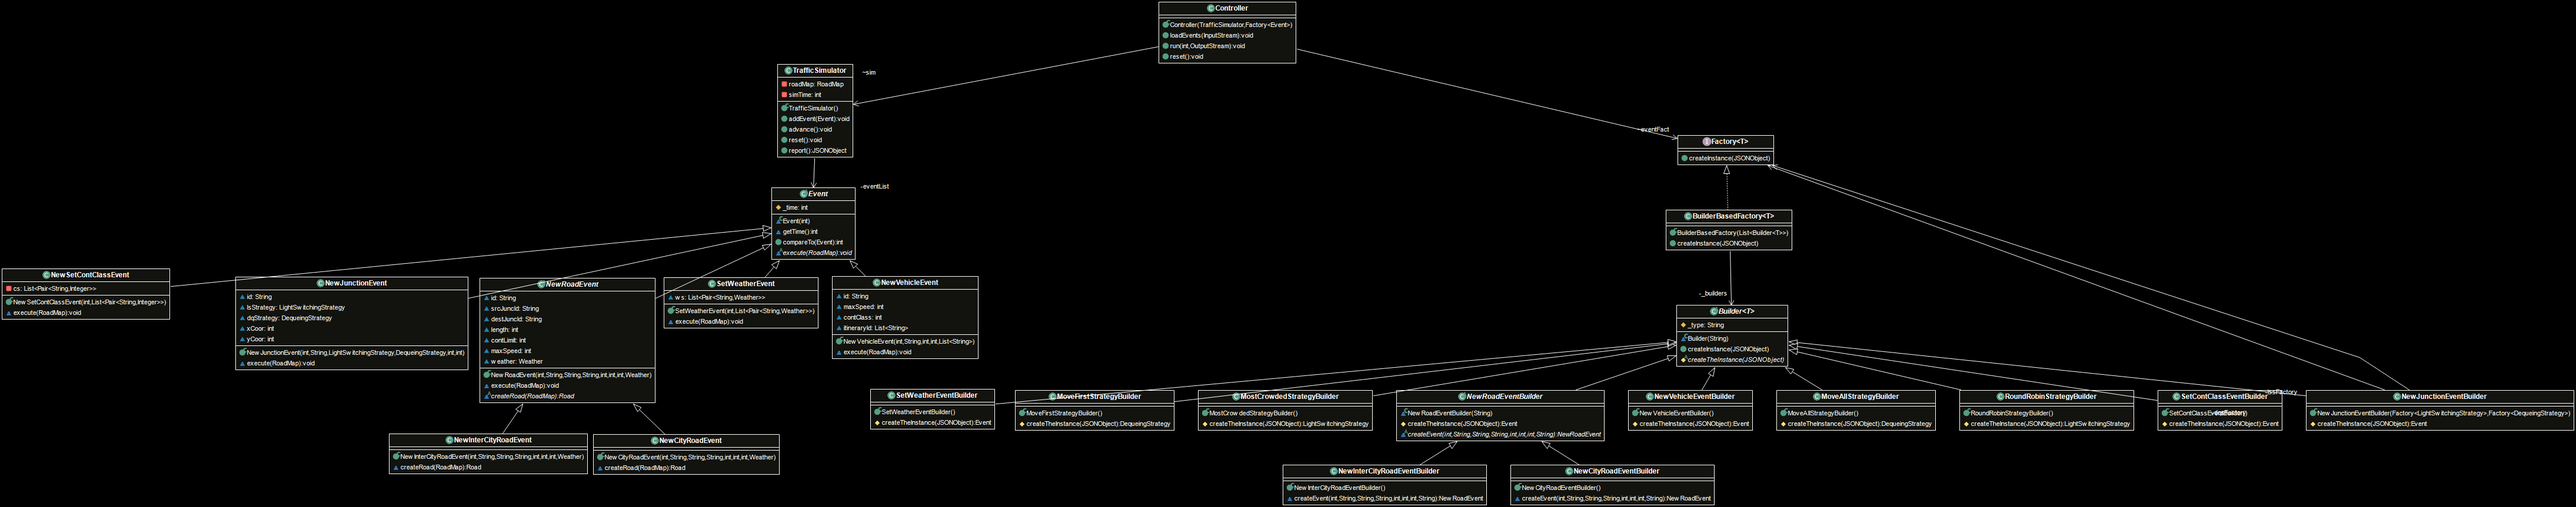
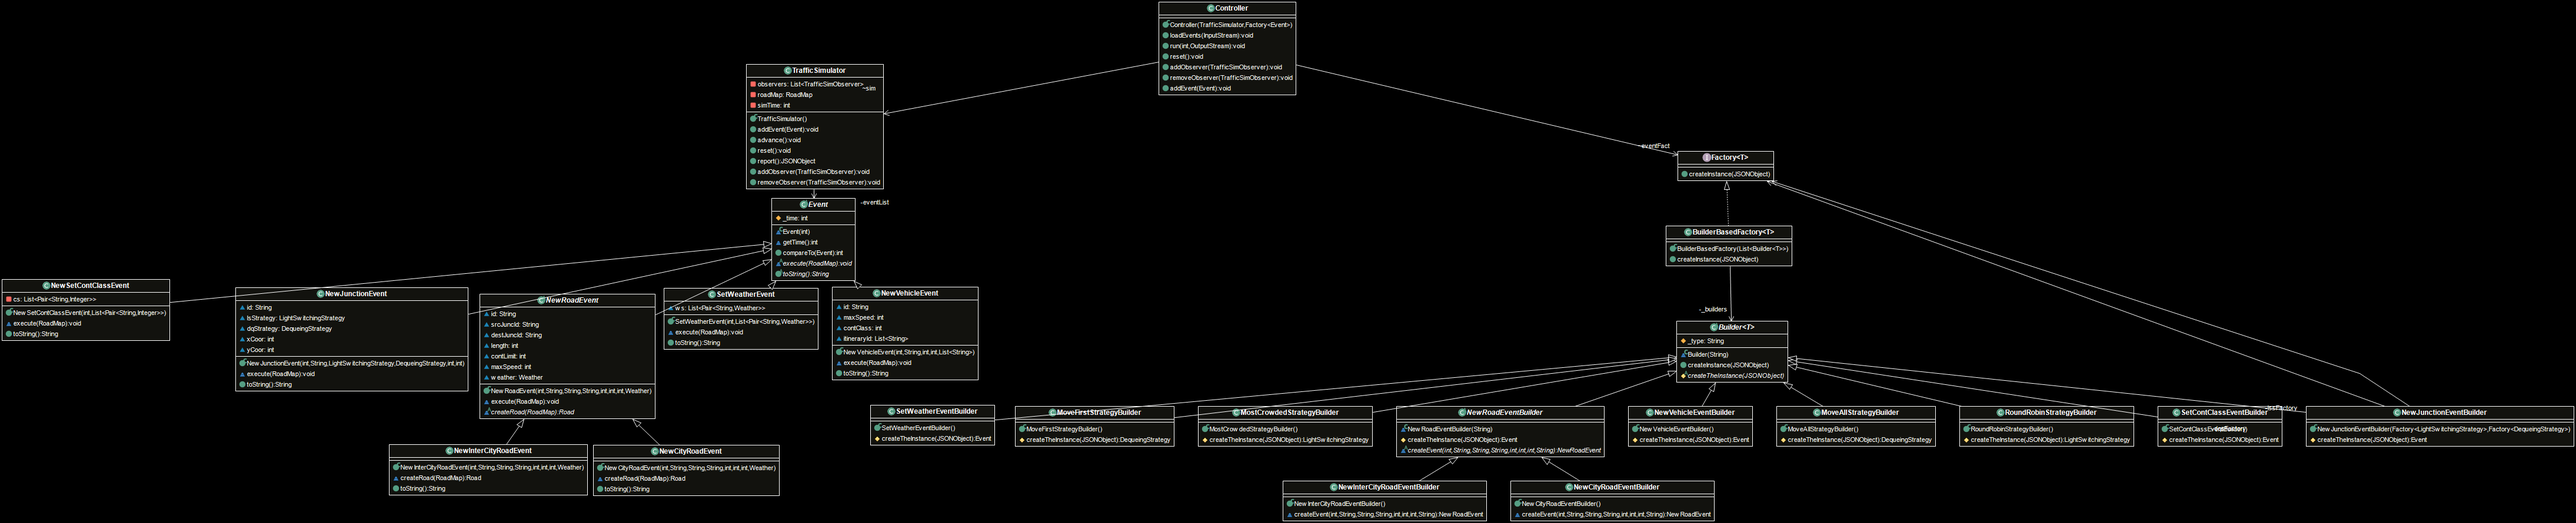
toString methods in new event classes

diff --git a/src/simulator/launcher/Main.java b/src/simulator/launcher/Main.java
@@ -5,7 +5,6 @@ import java.io.FileInputStream;
 import java.io.FileOutputStream;
 import java.io.IOException;
 import java.io.InputStream;
-import java.nio.channels.NonWritableChannelException;
 import java.util.ArrayList;
 import java.util.List;
 
@@ -27,7 +26,6 @@ import simulator.factories.MoveFirstStrategyBuilder;
 import simulator.factories.NewCityRoadEventBuilder;
 import simulator.factories.NewInterCityRoadEventBuilder;
 import simulator.factories.NewJunctionEventBuilder;
-import simulator.factories.NewRoadEventBuilder;
 import simulator.factories.NewVehicleEventBuilder;
 import simulator.factories.RoundRobinStrategyBuilder;
 import simulator.factories.SetContClassEventBuilder;
@@ -35,9 +33,6 @@ import simulator.factories.SetWeatherEventBuilder;
 import simulator.model.DequeingStrategy;
 import simulator.model.Event;
 import simulator.model.LightSwitchingStrategy;
-import simulator.model.NewInterCityRoadEvent;
-import simulator.model.RoundRobinStrategy;
-import simulator.model.SetWeatherEvent;
 import simulator.model.TrafficSimulator;
 
 public class Main {

diff --git a/src/simulator/control/Controller.java b/src/simulator/control/Controller.java
@@ -1,20 +1,17 @@
 package simulator.control;
 
 
-import java.awt.List;
 import java.io.InputStream;
 import java.io.OutputStream;
 import java.io.PrintStream;
-import java.util.ArrayList;
 
 import org.json.JSONArray;
 import org.json.JSONObject;
 import org.json.JSONTokener;
 
-import simulator.factories.BuilderBasedFactory;
 import simulator.factories.Factory;
 import simulator.model.Event;
-import simulator.model.NewCityRoadEvent;
+import simulator.model.TrafficSimObserver;
 import simulator.model.TrafficSimulator;
 
 public class Controller {
@@ -66,5 +63,17 @@ public class Controller {
 	
 	public void reset() {
 		sim.reset();
+	}
+	
+	public void addObserver(TrafficSimObserver o) {
+		sim.addObserver(o);
+	}
+	
+	public void removeObserver(TrafficSimObserver o) {
+		sim.removeObserver(o);
+	}
+	
+	public void addEvent(Event e) {
+		sim.addEvent(e);
 	}
 }

diff --git a/src/simulator/model/NewInterCityRoadEvent.java b/src/simulator/model/NewInterCityRoadEvent.java
@@ -12,5 +12,10 @@ public class NewInterCityRoadEvent extends NewRoadEvent {
 		return new InterCityRoad(id, map.getJunction(srcJuncId), 
 				map.getJunction(destJuncId), maxSpeed, contLimit, length, weather);
 	}
+	
+	@Override
+	public String toString() {
+		return "New InterCity road '" + id + "'";
+	}
 
 }

diff --git a/src/simulator/model/SetWeatherEvent.java b/src/simulator/model/SetWeatherEvent.java
@@ -29,7 +29,13 @@ public class SetWeatherEvent extends Event {
 				throw new NullPointerException();
 			}
 		}
-
+	}
+	
+	@Override
+	public String toString() {
+		return "Weather changes";
+		// TODO: To print specific info, store map parameter of execute and
+		// iterate over list as in execute
 	}
 
 }

diff --git a/src/simulator/model/NewSetContClassEvent.java b/src/simulator/model/NewSetContClassEvent.java
@@ -30,5 +30,12 @@ public class NewSetContClassEvent extends Event {
 			}
 		}
 	}
+	
+	@Override
+	public String toString() {
+		 return "New contamination classes ";
+		// TODO: To print specific vehicles and cont, store map parameter of execute and
+		// iterate over list as in execute
+	}
 
 }

diff --git a/src/simulator/factories/NewRoadEventBuilder.java b/src/simulator/factories/NewRoadEventBuilder.java
@@ -3,9 +3,7 @@ package simulator.factories;
 import org.json.JSONObject;
 
 import simulator.model.Event;
-import simulator.model.NewInterCityRoadEvent;
 import simulator.model.NewRoadEvent;
-import simulator.model.Weather;
 
 public abstract class NewRoadEventBuilder extends Builder<Event> {
 	

diff --git a/src/simulator/model/Vehicle.java b/src/simulator/model/Vehicle.java
@@ -3,11 +3,7 @@ package simulator.model;
 import java.util.ArrayList;
 import java.util.Collections;
 import java.util.List;
-import java.math.*;
-
 import org.json.JSONObject;
-
-import simulator.factories.NewVehicleEventBuilder;
 
 public class Vehicle extends SimulatedObject {
 

diff --git a/src/simulator/factories/NewInterCityRoadEventBuilder.java b/src/simulator/factories/NewInterCityRoadEventBuilder.java
@@ -1,9 +1,5 @@
 package simulator.factories;
 
-import org.json.JSONObject;
-
-import simulator.model.Event;
-import simulator.model.NewCityRoadEvent;
 import simulator.model.NewInterCityRoadEvent;
 import simulator.model.NewRoadEvent;
 import simulator.model.Weather;

diff --git a/src/simulator/model/NewJunctionEvent.java b/src/simulator/model/NewJunctionEvent.java
@@ -22,5 +22,10 @@ public class NewJunctionEvent extends Event {
 	void execute(RoadMap map) {
 		map.addJunction(new Junction(id, lsStrategy, dqStrategy, xCoor, yCoor));
 	}
+	
+	@Override
+	public String toString() {
+		return "New Junction '" + id + "'";
+	}
 
 }

diff --git a/src/simulator/factories/MoveAllStrategyBuilder.java b/src/simulator/factories/MoveAllStrategyBuilder.java
@@ -4,7 +4,6 @@ import org.json.JSONObject;
 
 import simulator.model.DequeingStrategy;
 import simulator.model.MoveAllStrategy;
-import simulator.model.MoveFirstStrategy;
 
 public class MoveAllStrategyBuilder extends Builder<DequeingStrategy> {
 	

diff --git a/src/simulator/model/NewCityRoadEvent.java b/src/simulator/model/NewCityRoadEvent.java
@@ -13,4 +13,8 @@ public class NewCityRoadEvent extends NewRoadEvent {
 				map.getJunction(destJuncId), maxSpeed, contLimit, length, weather);
 	}
 
+	@Override
+	public String toString() {
+		return "New Road '" + id + "'";
+	}
 }

diff --git a/src/simulator/factories/NewCityRoadEventBuilder.java b/src/simulator/factories/NewCityRoadEventBuilder.java
@@ -1,8 +1,5 @@
 package simulator.factories;
 
-import org.json.JSONObject;
-
-import simulator.model.Event;
 import simulator.model.NewCityRoadEvent;
 import simulator.model.NewRoadEvent;
 import simulator.model.Weather;
